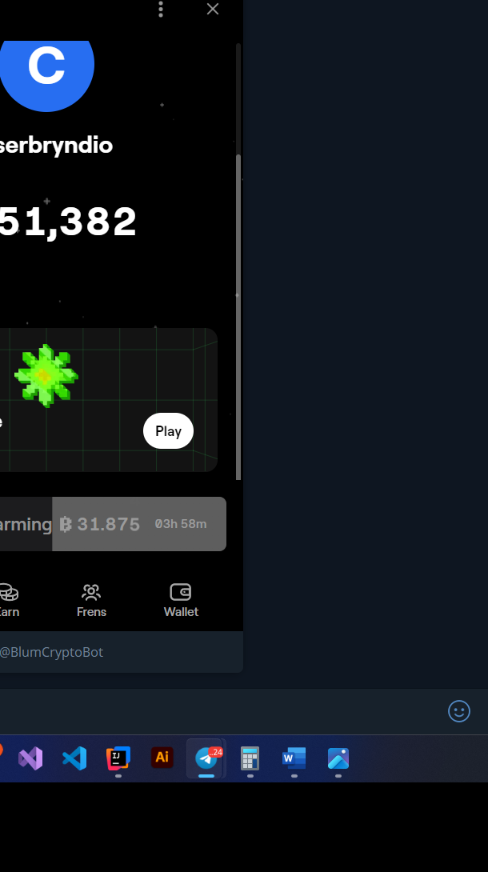
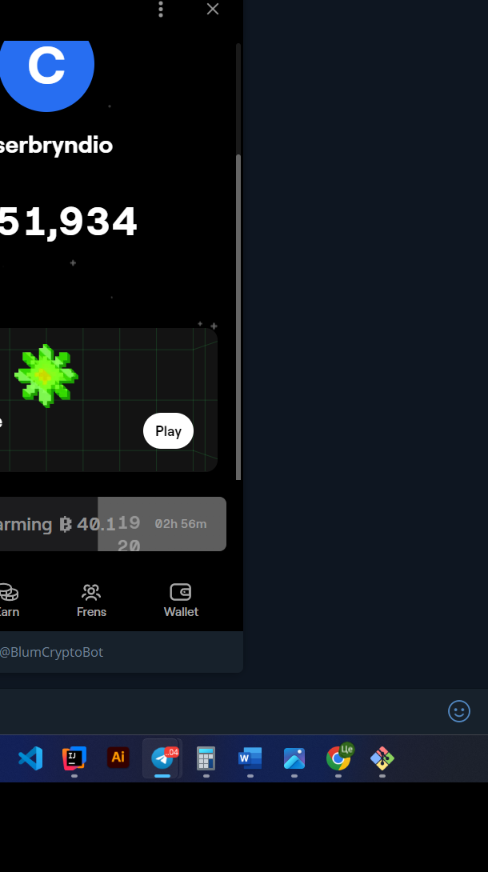
Now almost absolutely avoiding bombs because of 1500ms threa.sleep. Now TO-DO functions again-playing

diff --git a/AutoClicker/blumkiss/src/logic/Logic.java b/AutoClicker/blumkiss/src/logic/Logic.java
@@ -227,7 +227,7 @@ public class Logic {
             List<Word> wordsPlay = tesseract.getWords(screenshotPlay, ITessAPI.TessPageIteratorLevel.RIL_WORD);
 
             for (Word wordw : wordsPlay) {
-                if (wordw.getText().equalsIgnoreCase("Wallet")) {
+                if (wordw.getText().equalsIgnoreCase("@BlumCryptoBot")) {
                     java.awt.Rectangle boundingBoxPlay = wordw.getBoundingBox();
                     int x = boundingBoxPlay.x;
                     int y = boundingBoxPlay.y;
@@ -236,7 +236,7 @@ public class Logic {
                     findPlay = true;
                     System.out.println("Found 'Wallet' at: " + x + ", " + y);
                     System.out.println("Bounding box size: " + width + "x" + height);
-                    robot.mouseMove(xPlay+x - 10, yPlay+y - 180);
+                    robot.mouseMove(xPlay+x + 170, yPlay+y - 230);
                     Thread.sleep(2000);
                     robot.mousePress(InputEvent.BUTTON1_DOWN_MASK);
                     robot.mouseRelease(InputEvent.BUTTON1_DOWN_MASK);
@@ -280,7 +280,7 @@ public class Logic {
 
                 Mat hsvImage = new Mat();
                 Imgproc.cvtColor(image, hsvImage, Imgproc.COLOR_BGR2HSV);
-                Scalar lowerGreen = new Scalar(35, 100, 100, 0); // Adjust to your green
+                Scalar lowerGreen = new Scalar(35, 150, 160, 0); // Adjust to your green
                 Scalar upperGreen = new Scalar(70, 255, 255, 0);
 
                 // Detect green objects (snowflakes)
@@ -309,7 +309,7 @@ public class Logic {
                     Imgproc.drawContours(singleStarMask, contours, starIndex, new Scalar(255), -1);
 
                     // Збереження маски для кожної сніжинки
-                    String maskFilename = "masks\\star_mask_" + gameplayIndex + ".png";
+                    String maskFilename = "masks\\star_mask_" + gameplayIndex + "_" + starIndex + ".png";
                     Imgcodecs.imwrite(maskFilename, singleStarMask);
 
                     System.out.println("Маска сніжинки збережена як: " + maskFilename);
@@ -317,7 +317,7 @@ public class Logic {
                     starIndex++;
                 }
 
-                Thread.sleep(100);
+                Thread.sleep(1500);
             }
 
             System.out.println("Game over: 30 seconds have passed.");
